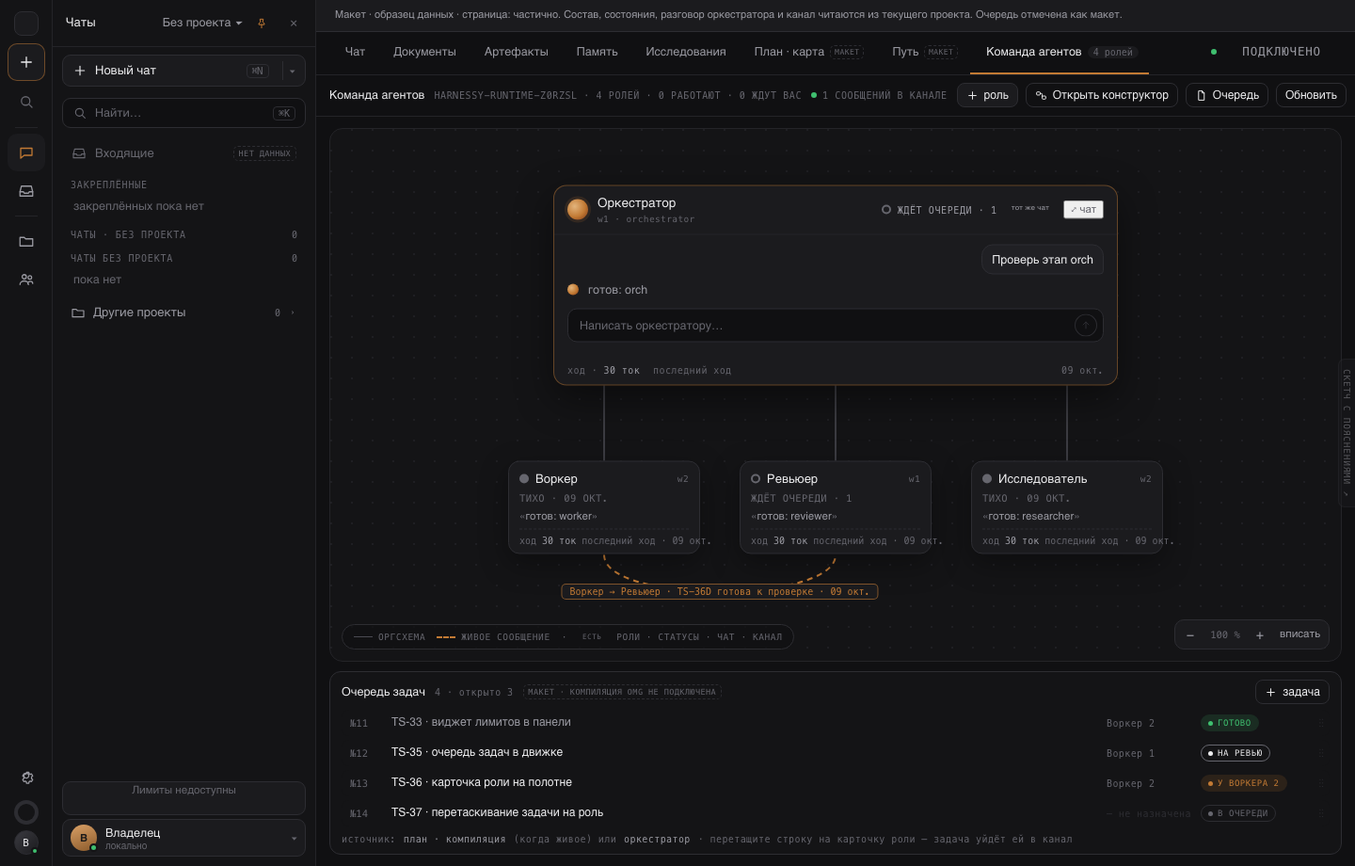
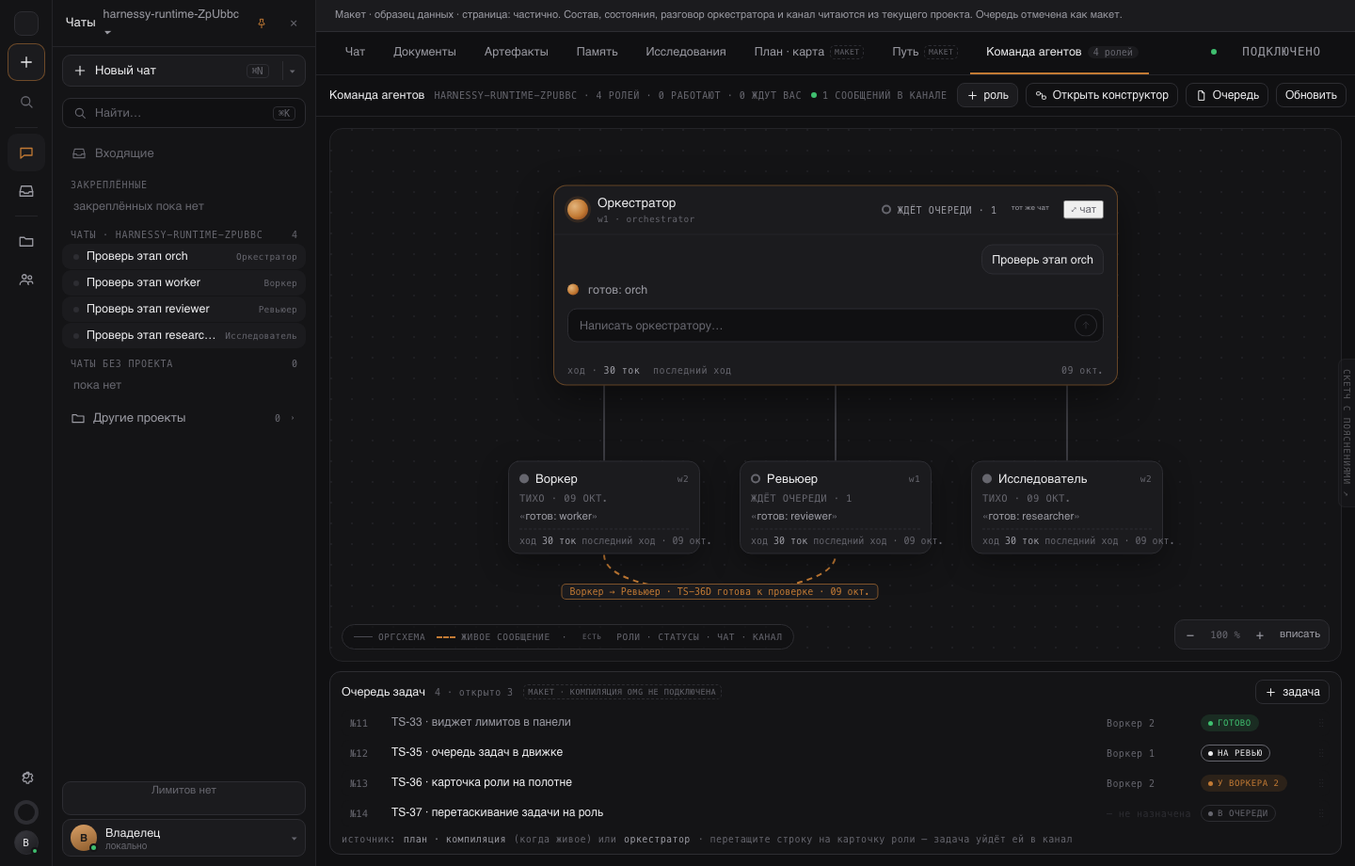
Fix live team project isolation

diff --git a/ui/deploy/team-live.js b/ui/deploy/team-live.js
@@ -4,9 +4,13 @@
   if(!root)return;
   const LIVE=window.LIVE, TC=window.TC, mode=root.dataset.teamLive;
   if(!LIVE||!TC){root.innerHTML='<div class="tc-live-error">Экран команды не загрузился.</div>';return}
-  const H=LIVE.H, esc=LIVE.esc, S={request:0,loading:false,queued:false,data:null,chats:new Map(),derived:null,engine:null,selected:null,error:null,events:null,queue:JSON.parse(JSON.stringify(TC.QUEUE0)),filter:'all'};
+  const H=LIVE.H, esc=LIVE.esc, S={request:0,loading:false,queued:false,binding:null,settings:new Map(),drafts:new Map(),skipDraftCapture:false,data:null,chats:new Map(),derived:null,engine:null,selected:null,error:null,events:null,queue:JSON.parse(JSON.stringify(TC.QUEUE0)),filter:'all'};
   const projectBinding=()=>({project:H.project,request:H.projectRequestGeneration||0,confirmed:H.confirmedProjectGeneration||0});
   const projectCurrent=binding=>binding.project===H.project&&binding.request===(H.projectRequestGeneration||0)&&binding.confirmed===(H.confirmedProjectGeneration||0);
+  const sameBinding=(left,right)=>!!left&&!!right&&left.project===right.project&&left.request===right.request&&left.confirmed===right.confirmed;
+  const snapshotCurrent=(binding=S.binding)=>!!binding&&projectCurrent(binding)&&sameBinding(S.binding,binding);
+  const draftKey=(project,id)=>project+'\u0000'+id;
+  function settingReceipt(id,binding){const pane=(H.panes||[]).find(row=>row.id===id),value=pane&&pane.settingsBinding;return value&&value.project===binding.project&&value.pane===id&&typeof value.instanceId==='string'&&value.instanceId&&Number.isSafeInteger(value.revision)&&value.revision>=0&&(value.chat===null||typeof value.chat==='string')&&typeof value.mode==='string'&&(value.networkGeneration===null||typeof value.networkGeneration==='string')?{...value}:null}
   const safeNumber=value=>typeof value==='number'&&Number.isFinite(value)&&value>=0;
   const safeRecord=row=>row&&Number.isSafeInteger(row.seq)&&row.seq>0&&typeof row.ts==='string'&&Number.isFinite(Date.parse(row.ts))&&typeof row.from==='string'&&Array.isArray(row.to)&&row.to.every(id=>typeof id==='string')&&typeof row.kind==='string'&&typeof row.text==='string';
   const safePane=p=>p&&typeof p.id==='string'&&p.id&&p.id!=='room'&&['label','role','vendor','model','mode','status'].every(key=>typeof p[key]==='string')&&typeof p.busy==='boolean'&&Number.isSafeInteger(p.pending)&&p.pending>=0&&Number.isSafeInteger(p.pendingApprovals)&&p.pendingApprovals>=0&&(p.chat===null||typeof p.chat==='string')&&(p.instructionPath===null||typeof p.instructionPath==='string')&&Array.isArray(p.queue)&&p.queue.every(safeRecord)&&p.context&&safeNumber(p.context.used)&&(p.context.last===null||p.context.last&&['input','output','cacheRead'].every(key=>p.context.last[key]===null||safeNumber(p.context.last[key])));
@@ -21,7 +25,7 @@
   function member(pane){const chat=S.chats.get(pane.id),messages=chat&&chat.messages||[],last=messages.length?messages[messages.length-1]:null,state=paneState(pane,last),used=tokens(pane.context.last);return {id:pane.id,name:pane.label||pane.id,gen:(pane.label||pane.id).toLowerCase(),kind:pane.kind||pane.role,role:pane.role,model:modelName(pane),vendor:pane.vendor,mode:pane.mode,st:state[0],stText:state[1],last:last?short(last.text):pane.turn&&pane.turn.message?short(pane.turn.message):'реплик ещё нет',spend:used===null?'нет данных':used.toLocaleString('ru-RU')+' ток',tok:'последний ход',at:last?relative(last.ts):'нет времени',messages,chat:pane.chat,instructionPath:pane.instructionPath,source:pane};}
   function derive(snapshot){const members=snapshot.panes.map(member),byId=new Map(members.map(row=>[row.id,row])),orch=members.find(row=>row.kind==='orchestrator'||row.role==='orchestrator')||null,edges=[];if(orch)for(const row of members)if(row!==orch)edges.push({s:orch.id,t:row.id,k:'org'});const live=[];for(const record of snapshot.journal.records){if(!byId.has(record.from))continue;for(const to of record.to)if(to!==record.from&&byId.has(to))live.push({s:record.from,t:to,k:'live',a:(byId.get(record.from).name+' → '+byId.get(to).name+' · '+short(record.text).slice(0,72)+' · '+relative(Date.parse(record.ts)))})}edges.push(...live.slice(-6));return {members,orch,roles:members.filter(row=>row!==orch),edges,live:live.slice(-6)}}
   const icon=key=>TC.ico(key);
-  const projectName=()=>String(H.project||'').split('/').filter(Boolean).pop()||'Без проекта';
+  const projectName=()=>String(S.binding&&S.binding.project||H.project||'').split('/').filter(Boolean).pop()||'Без проекта';
   function content(html){const banner=root.querySelector(':scope > .spec-banner');root.innerHTML=html;if(banner)root.insertBefore(banner,root.firstChild)}
   function tabs(){const tab=(key,label,tail='')=>'<span'+(key==='swarm'?' class="on"':'')+' data-go="'+key+'">'+icon(key)+label+tail+'</span>';return '<div class="ps2-tabs">'+tab('chat','Чат')+tab('doc','Документы')+tab('art','Артефакты')+tab('mem','Память')+tab('res','Исследования')+tab('plan','План · карта',TC.tag('mock','макет'))+tab('path','Путь',TC.tag('mock','макет'))+tab('swarm','Команда агентов','<b data-team-count>0 ролей</b>')+'<span class="r"><i></i><span data-team-link>читаю данные</span></span></div>'}
   const zoom=()=>'<div class="om-zoom" data-zoom><span data-z="out">−</span><b data-zpct>100 %</b><span data-z="in">+</span><span class="fit" data-z="fit">вписать</span></div>';
@@ -35,30 +39,35 @@
     TC.bindQueue(root,S.queue,()=>drawQueuePreview());drawQueuePreview();
   }
   function drawQueuePreview(){const box=root.querySelector('[data-team-queue-preview]');if(box)box.innerHTML=TC.queue(S.queue.slice(0,4),{one:true})}
-  function drawWork(){if(!S.engine)workShell();const data=S.data,view=S.derived,roles=view&&view.members||[];root.querySelector('[data-team-count]').textContent=roles.length+' ролей';root.querySelector('[data-team-link]').textContent=data?'подключено':'нет данных';root.querySelector('[data-team-summary]').textContent=data?projectName()+' · '+roles.length+' ролей · '+roles.filter(row=>row.st==='write').length+' работают · '+roles.filter(row=>row.st==='decide'||row.st==='err').length+' ждут вас':'Данные команды не прочитаны';root.querySelector('[data-team-channel]').textContent=data?(view.live.length?view.live.length+' сообщений в канале':'канал тихий'):'канал недоступен';const menu=root.querySelector('[data-team-plus-wrap] .tc-pmenu');if(menu)menu.outerHTML=roleMenu();S.engine.render();error(S.error)}
-  function modelOptions(pane){const rows=[];for(const [vendor,models] of Object.entries(H.models||{}))if(Array.isArray(models))for(const model of models)if(model&&typeof model.id==='string')rows.push({vendor,id:model.id,label:model.label||model.id});if(!rows.some(row=>row.vendor===pane.vendor&&row.id===pane.model))rows.unshift({vendor:pane.vendor,id:pane.model,label:pane.model||'модель не выбрана'});return rows.map(row=>{const value=encodeURIComponent(row.vendor)+'/'+encodeURIComponent(row.id);return '<option value="'+value+'"'+(row.vendor===pane.vendor&&row.id===pane.model?' selected':'')+'>'+esc(row.label)+' · '+esc(row.vendor)+'</option>'}).join('')}
-  function modeOptions(pane){const available=H.turnModes&&H.turnModes[pane.vendor]||{},ids=Object.keys(available).filter(id=>available[id]&&available[id].ok===true);if(!ids.includes(pane.mode))ids.unshift(pane.mode);return ids.map(id=>'<option value="'+esc(id)+'"'+(id===pane.mode?' selected':'')+'>'+esc(id)+'</option>').join('')}
-  function constructorNode(row){const p=row.source;return '<div class="tc-node" data-key="'+esc(row.id)+'" data-team-pane="'+esc(row.id)+'"><span class="pi" data-l="получает"></span><span class="po" data-l="пишет"></span><div class="hd"><span class="ic">'+icon(row.kind==='orchestrator'?'orch':row.kind||'role')+'</span><div><b>'+esc(row.name)+'</b><small>'+esc(row.role)+' · '+esc(row.vendor)+'</small></div></div><div class="rows"><label class="row"><span>модель</span><select class="v" data-team-model data-nodrag data-original="'+esc(encodeURIComponent(p.vendor)+'/'+encodeURIComponent(p.model))+'">'+modelOptions(p)+'</select></label><label class="row"><span>права</span><select class="v" data-team-mode data-nodrag data-original="'+esc(p.mode)+'"'+(p.busy?' disabled title="Права меняются после завершения хода"':'')+'>'+modeOptions(p)+'</select></label><button type="button" class="row tc-instruction-open" data-team-instruction-open="'+esc(row.id)+'" data-nodrag><span>инструкция</span><span class="v file">'+esc(row.instructionPath||'файл не задан')+'</span></button></div><div class="ft"><span class="acc">живое место</span><span>'+esc(row.stText)+'</span></div></div>'}
+  function drawWork(){if(!S.engine)workShell();const data=S.data,view=S.derived,roles=view&&view.members||[],ready=snapshotCurrent();root.querySelector('[data-team-count]').textContent=roles.length+' ролей';root.querySelector('[data-team-link]').textContent=ready?'подключено':data?'смена проекта':'нет данных';root.querySelector('[data-team-summary]').textContent=data?projectName()+' · '+roles.length+' ролей · '+roles.filter(row=>row.st==='write').length+' работают · '+roles.filter(row=>row.st==='decide'||row.st==='err').length+' ждут вас':'Данные команды не прочитаны';root.querySelector('[data-team-channel]').textContent=data?(view.live.length?view.live.length+' сообщений в канале':'канал тихий'):'канал недоступен';const menu=root.querySelector('[data-team-plus-wrap] .tc-pmenu');if(menu)menu.outerHTML=roleMenu();S.engine.render();root.querySelectorAll('[data-team-plus],[data-team-send],[data-team-open-chat],[data-team-chat-input]').forEach(node=>node.disabled=!ready);if(!ready)root.querySelectorAll('[data-team-role]').forEach(node=>node.disabled=true);error(S.error)}
+  function draftFor(id){return S.binding&&S.drafts.get(draftKey(S.binding.project,id))||null}
+  function captureDrafts(){if(mode!=='constructor'||!snapshotCurrent())return;for(const node of root.querySelectorAll('[data-team-pane]')){const model=node.querySelector('[data-team-model]'),rights=node.querySelector('[data-team-mode]');if(!model||!rights)continue;const key=draftKey(S.binding.project,node.dataset.teamPane);if(model.value===model.dataset.original&&rights.value===rights.dataset.original)S.drafts.delete(key);else S.drafts.set(key,{model:model.value,mode:rights.value})}}
+  function restoreDrafts(){if(mode!=='constructor'||!snapshotCurrent())return;for(const node of root.querySelectorAll('[data-team-pane]')){const draft=draftFor(node.dataset.teamPane),model=node.querySelector('[data-team-model]'),rights=node.querySelector('[data-team-mode]');if(!model||!rights)continue;model.value=draft&&[...model.querySelectorAll('option')].some(option=>option.value===draft.model)?draft.model:model.dataset.original;rights.value=draft&&[...rights.querySelectorAll('option')].some(option=>option.value===draft.mode)?draft.mode:rights.dataset.original}}
+  function modelOptions(pane,selected){const rows=[];for(const [vendor,models] of Object.entries(H.models||{}))if(Array.isArray(models))for(const model of models)if(model&&typeof model.id==='string')rows.push({vendor,id:model.id,label:model.label||model.id});if(!rows.some(row=>row.vendor===pane.vendor&&row.id===pane.model))rows.unshift({vendor:pane.vendor,id:pane.model,label:pane.model||'модель не выбрана'});const original=encodeURIComponent(pane.vendor)+'/'+encodeURIComponent(pane.model),choice=rows.some(row=>encodeURIComponent(row.vendor)+'/'+encodeURIComponent(row.id)===selected)?selected:original;return rows.map(row=>{const value=encodeURIComponent(row.vendor)+'/'+encodeURIComponent(row.id);return '<option value="'+value+'"'+(value===choice?' selected':'')+'>'+esc(row.label)+' · '+esc(row.vendor)+'</option>'}).join('')}
+  function modeOptions(pane,selected){const available=H.turnModes&&H.turnModes[pane.vendor]||{},ids=Object.keys(available).filter(id=>available[id]&&available[id].ok===true);if(!ids.includes(pane.mode))ids.unshift(pane.mode);const choice=ids.includes(selected)?selected:pane.mode;return ids.map(id=>'<option value="'+esc(id)+'"'+(id===choice?' selected':'')+'>'+esc(id)+'</option>').join('')}
+  function constructorNode(row){const p=row.source,draft=draftFor(row.id),originalModel=encodeURIComponent(p.vendor)+'/'+encodeURIComponent(p.model);return '<div class="tc-node" data-key="'+esc(row.id)+'" data-team-pane="'+esc(row.id)+'"><span class="pi" data-l="получает"></span><span class="po" data-l="пишет"></span><div class="hd"><span class="ic">'+icon(row.kind==='orchestrator'?'orch':row.kind||'role')+'</span><div><b>'+esc(row.name)+'</b><small>'+esc(row.role)+' · '+esc(row.vendor)+'</small></div></div><div class="rows"><label class="row"><span>модель</span><select class="v" data-team-model data-nodrag data-original="'+esc(originalModel)+'">'+modelOptions(p,draft&&draft.model||originalModel)+'</select></label><label class="row"><span>права</span><select class="v" data-team-mode data-nodrag data-original="'+esc(p.mode)+'"'+(p.busy?' disabled title="Права меняются после завершения хода"':'')+'>'+modeOptions(p,draft&&draft.mode||p.mode)+'</select></label><button type="button" class="row tc-instruction-open" data-team-instruction-open="'+esc(row.id)+'" data-nodrag><span>инструкция</span><span class="v file">'+esc(row.instructionPath||'файл не задан')+'</span></button></div><div class="ft"><span class="acc">живое место</span><span>'+esc(row.stText)+'</span></div></div>'}
   function library(){const rows=Array.isArray(H.roleCatalog)?H.roleCatalog:[];return '<div class="tc-lib"><div class="hd">библиотека ролей<span>'+rows.length+'</span></div>'+rows.map(role=>'<button type="button" class="it'+(role.available?'':' used')+'" data-team-role="'+esc(role.role)+'"'+(role.available?'':' disabled')+'><span class="ic">'+icon(role.kind==='orchestrator'?'orch':role.kind||'role')+'</span><div><b>'+esc(role.label||role.role)+'</b><small>'+esc(role.description||role.reason||'роль проекта')+'</small></div><span class="m">'+esc(role.available?'доступна':role.reason||'в команде')+'</span></button>').join('')+'<div class="it own"><span class="ic">'+icon('new')+'</span><div><b>Своя роль</b><small>двери записи роли в движке нет</small></div><span class="m">'+TC.tag('mock','макет')+'</span></div><div class="ft">Состав расширяет оркестратор через подтверждённое предложение. Здесь сохраняются только модель и права существующего места.</div></div>'}
   function constructorShell(){content(tabs()+'<div class="ps2-tbar"><b>Конструктор команды</b><span class="m" data-team-summary>Читаю состав…</span>'+TC.tag('mock','связи · применение без перезапуска')+'<span class="r"><button type="button" class="btn sm ghost" data-team-work>'+icon('swarm')+'К полотну</button><button type="button" class="btn sm p" data-team-save>'+icon('save')+'Сохранить модель и права</button></span></div><div class="tc-cons"><div data-team-library></div><div class="om-canvas tc" data-canvas><div class="spec-block">Макет · связи и порты пока не сохраняются движком.</div><div class="om-view" data-view><svg class="om-edges" data-edges></svg><div data-nodes></div></div>'+zoom()+'<div class="tc-legend"><span><i></i>оргсхема</span><span>·</span>'+TC.tag('live','есть')+'<span>модель · права · инструкция</span>'+TC.tag('mock','макет')+'<span>связи</span></div></div></div><section class="tc-instruction" data-team-instruction><b>Инструкция роли</b><p>Выберите карточку. Файл читается из проекта; отдельной двери записи инструкции нет.</p></section>');
     S.engine=TC.engine(root,{nodes:()=>S.derived?S.derived.members.map(constructorNode).join(''):'',edges:()=>S.derived?S.derived.edges.filter(edge=>edge.k==='org'):[],path:TC.consPath,padBottom:60,layout:(G,W)=>{const nodes=S.derived&&S.derived.members||[],cw=236,cols=Math.max(1,Math.min(3,Math.floor((W-32)/(cw+38))));nodes.forEach((row,index)=>{const col=index%cols,line=Math.floor(index/cols);G.rects[row.id]={x:24+col*(cw+64),y:24+line*188,w:cw,h:150}})},onSelect:id=>{S.selected=id;void readInstruction(id)}});
   }
-  function drawConstructor(){if(!S.engine)constructorShell();root.querySelector('[data-team-library]').innerHTML=library();root.querySelector('[data-team-summary]').textContent=S.data?projectName()+' · '+S.data.panes.length+' ролей':'Данные команды не прочитаны';S.engine.render();error(S.error)}
-  async function readInstruction(id){const row=S.derived&&S.derived.members.find(member=>member.id===id),box=root.querySelector('[data-team-instruction]');if(!row||!box)return;if(!row.instructionPath){box.innerHTML='<b>'+esc(row.name)+' · инструкция</b><p>Файл инструкции для этого места не задан.</p>'+TC.tag('live','отсутствует');return}const binding=projectBinding(),request=S.request;box.innerHTML='<b>'+esc(row.name)+' · '+esc(row.instructionPath)+'</b><p>Читаю файл…</p>';try{const value=await LIVE.api('/api/project/file?project='+encodeURIComponent(binding.project)+'&path='+encodeURIComponent(row.instructionPath)+'&text=1');if(request!==S.request||!projectCurrent(binding))return;if(!value||value.ok!==true||value.project!==binding.project||value.path!==row.instructionPath||typeof value.text!=='string')throw Error(value&&value.error||'Файл не прочитан.');box.innerHTML='<b>'+esc(row.name)+' · '+esc(row.instructionPath)+'</b><textarea readonly>'+esc(value.text)+'</textarea><p>'+TC.tag('live','чтение')+' Сохранение текста инструкции: '+TC.tag('mock','макет · нет API записи')+'</p>'}catch(failure){if(request===S.request&&projectCurrent(binding))box.innerHTML='<b>'+esc(row.name)+' · инструкция</b><p role="alert">'+esc(failure.message||'Файл не прочитан.')+'</p>'}}
+  function drawConstructor(){if(S.engine&&!S.skipDraftCapture)captureDrafts();S.skipDraftCapture=false;if(!S.engine)constructorShell();const count=S.data?S.data.panes.length:0,ready=snapshotCurrent();root.querySelector('[data-team-library]').innerHTML=library();root.querySelector('[data-team-count]').textContent=count+' ролей';root.querySelector('[data-team-link]').textContent=ready?'подключено':S.data?'смена проекта':'нет данных';root.querySelector('[data-team-summary]').textContent=S.data?projectName()+' · '+count+' ролей':'Данные команды не прочитаны';root.querySelector('[data-team-save]').disabled=false;S.engine.render();restoreDrafts();if(!ready)root.querySelectorAll('[data-team-model],[data-team-mode],[data-team-instruction-open],[data-team-role]').forEach(node=>node.disabled=true);error(S.error)}
+  async function readInstruction(id){const row=S.derived&&S.derived.members.find(member=>member.id===id),box=root.querySelector('[data-team-instruction]'),binding=S.binding;if(!row||!box)return;if(!binding||!projectCurrent(binding)){error('Проект изменился. Дождитесь состава нового проекта.');return}if(!row.instructionPath){box.innerHTML='<b>'+esc(row.name)+' · инструкция</b><p>Файл инструкции для этого места не задан.</p>'+TC.tag('live','отсутствует');return}const request=S.request;box.innerHTML='<b>'+esc(row.name)+' · '+esc(row.instructionPath)+'</b><p>Читаю файл…</p>';try{const value=await LIVE.api('/api/project/file?project='+encodeURIComponent(binding.project)+'&path='+encodeURIComponent(row.instructionPath)+'&text=1');if(request!==S.request||!projectCurrent(binding))return;if(!value||value.ok!==true||value.project!==binding.project||value.path!==row.instructionPath||typeof value.text!=='string')throw Error(value&&value.error||'Файл не прочитан.');box.innerHTML='<b>'+esc(row.name)+' · '+esc(row.instructionPath)+'</b><textarea readonly>'+esc(value.text)+'</textarea><p>'+TC.tag('live','чтение')+' Сохранение текста инструкции: '+TC.tag('mock','макет · нет API записи')+'</p>'}catch(failure){if(request===S.request&&projectCurrent(binding))box.innerHTML='<b>'+esc(row.name)+' · инструкция</b><p role="alert">'+esc(failure.message||'Файл не прочитан.')+'</p>'}}
   function queueRows(){const rows=S.filter==='all'?S.queue:S.queue.filter(task=>task.st===S.filter);return '<div class="tc-queue"><div class="filt"><button class="chip'+(S.filter==='all'?' on':'')+'" data-team-filter="all">Все · '+S.queue.length+'</button>'+[['q','В очереди'],['work','В работе'],['rev','На ревью'],['done','Готово']].map(([key,label])=>'<button class="chip'+(S.filter===key?' on':'')+'" data-team-filter="'+key+'">'+label+'</button>').join('')+'<span class="sp"></span>'+TC.tag('mock','макет · очередь из плана')+'</div><div class="hd"><b>Очередь задач</b><span class="m">пример · не данные движка</span></div><div class="rows one">'+rows.map(task=>TC.task(task,{cls:'big'})).join('')+'</div><div class="src">Макет · перетащите строку на карточку роли справа: состояние изменится только в браузере.</div></div>'}
   function queueShell(){const targets=[{...TC.ROLES[0],id:'mock-orch',name:'Оркестратор',gen:'оркестратора',st:'free',stText:'цель макета'},...TC.ROLES.slice(0,4)];content(tabs()+'<div class="ps2-tbar"><b>Команда агентов · очередь</b><span class="m">пример взаимодействия</span>'+TC.tag('mock','в движке очереди нет')+'<span class="r"><button type="button" class="btn sm ghost" data-team-work>'+icon('swarm')+'К полотну</button></span></div><div class="tc-qbig" data-spec-mock="В движке Harnessy очереди задач нет."><div data-team-queue-list></div><div class="targets"><span class="lbl">цели · данные примера</span>'+targets.map(cardHTML).join('')+'</div></div>');TC.bindQueue(root,S.queue,(task,card)=>{drawQueue();const line=card.querySelector('.l3');if(line)line.textContent='№'+task.n+' назначена: '+task.t});drawQueue()}
   function drawQueue(){const box=root.querySelector('[data-team-queue-list]');if(box)box.innerHTML=queueRows()}
-  async function saveConstructor(){const binding=projectBinding(),changes=[];for(const node of root.querySelectorAll('[data-team-pane]')){const model=node.querySelector('[data-team-model]'),rights=node.querySelector('[data-team-mode]');if(!model||!rights)continue;if(model.value!==model.dataset.original||rights.value!==rights.dataset.original)changes.push({node,model,rights})}if(!changes.length){LIVE.toast('Изменений модели и прав нет.');return}const button=root.querySelector('[data-team-save]');button.disabled=true;try{for(const change of changes){if(!projectCurrent(binding))throw Error('Проект изменился. Откройте конструктор снова.');const id=change.node.dataset.teamPane,[vendor,model]=change.model.value.split('/').map(decodeURIComponent),pane=(H.panes||[]).find(row=>row.id===id),rightsChanged=change.rights.value!==change.rights.dataset.original;if(!pane||!pane.settingsBinding||typeof pane.settingsBinding!=='object')throw Error('Не удалось подтвердить настройки места. Обновите экран.');if(rightsChanged&&pane.busy)throw Error('Место сейчас отвечает — права можно изменить после завершения хода.');const body={vendor,model,mode:change.rights.value,binding:{...pane.settingsBinding}},value=await LIVE.api('/api/panes/'+encodeURIComponent(id),body);if(!projectCurrent(binding))return;if(!value||value.ok!==true||!value.pane||value.pane.id!==id||value.pane.vendor!==vendor||value.pane.model!==model||value.pane.mode!==change.rights.value)throw Error(value&&value.error||'Движок не подтвердил настройки места.')}await LIVE.refreshStatus(true);if(!projectCurrent(binding))return;await sync(true);LIVE.toast('Модель и права сохранены. Со следующего хода.')}catch(failure){if(projectCurrent(binding))error(failure.message||'Настройки не сохранены.')}finally{button.disabled=false}}
-  async function assignRole(role){const catalog=Array.isArray(H.roleCatalog)&&H.roleCatalog.find(row=>row.role===role);if(!catalog||!catalog.available){error(catalog&&catalog.reason||'Роль сейчас недоступна.');return}const binding=projectBinding(),chat=(H.active||{}).room;if(!chat){error('Сначала начните разговор без роли — его можно назначить оркестратором.');return}try{const opened=await LIVE.api('/api/chats/'+encodeURIComponent(chat));if(!projectCurrent(binding))return;if(!validChat(opened,'room',chat))throw Error(opened&&opened.error||'Разговор без роли изменился.');const value=await LIVE.api('/api/assign',{role,chat,project:binding.project,revision:opened.chat.revision,documents:opened.chat.documents});if(!projectCurrent(binding))return;if(!value||value.ok!==true)throw Error(value&&value.error||'Роль не назначена.');await LIVE.refreshStatus(true);if(!projectCurrent(binding))return;await sync(true);LIVE.toast('Оркестратор назначен.')}catch(failure){if(projectCurrent(binding))error(failure.message||'Роль не назначена.')}}
-  async function sendOrchestrator(){const row=S.derived&&S.derived.orch,input=root.querySelector('[data-team-chat-input]');if(!row||!input)return;const message=input.value.trim();if(!message)return;const binding=projectBinding(),chat=row.chat;input.disabled=true;try{const value=await LIVE.api('/api/chat',{pane:row.id,message});if(!projectCurrent(binding)||S.derived&&S.derived.orch&&S.derived.orch.chat!==chat)return;if(!value||value.ok!==true)throw Error(value&&value.error||'Сообщение не отправлено.');input.value='';await sync(true)}catch(failure){if(projectCurrent(binding))error(failure.message||'Сообщение не отправлено.')}finally{input.disabled=false}}
-  function openOrchestrator(){const row=S.derived&&S.derived.orch;if(!row)return;LIVE.S.ui.pane=row.id;LIVE.save();location.href='01-chat.html'}
-  async function sync(force=false){if(mode==='queue')return;if(!H.on||H.snapshotOnly){S.error='Движок недоступен — живые данные команды не показаны.';draw();return}if(S.loading){S.queued=true;return}const binding=projectBinding(),request=++S.request;S.loading=true;try{const data=await LIVE.api('/api/swarm');if(request!==S.request||!projectCurrent(binding))return;if(!validSnapshot(data,binding.project))throw Error('Снимок команды не прошёл проверку.');const pairs=await Promise.all(data.panes.map(async pane=>{if(!pane.chat)return [pane.id,null];try{const chat=await LIVE.api('/api/chats/'+encodeURIComponent(pane.chat));return [pane.id,validChat(chat,pane.id,pane.chat)?chat:null]}catch(failure){return [pane.id,null]}}));if(request!==S.request||!projectCurrent(binding))return;S.data=data;S.chats=new Map(pairs);S.derived=derive(data);S.error=null;draw()}catch(failure){if(request===S.request&&projectCurrent(binding)){S.error=failure.message||'Не удалось прочитать команду.';draw()}}finally{if(request===S.request){S.loading=false;if(S.queued){S.queued=false;void sync(true)}}}}
+  async function saveConstructor(){captureDrafts();const binding=S.binding,button=root.querySelector('[data-team-save]');if(!snapshotCurrent(binding)){button.disabled=false;error('Проект изменился. Дождитесь состава нового проекта.');return}const changes=[];for(const node of root.querySelectorAll('[data-team-pane]')){const model=node.querySelector('[data-team-model]'),rights=node.querySelector('[data-team-mode]');if(!model||!rights)continue;if(model.value!==model.dataset.original||rights.value!==rights.dataset.original)changes.push({node,model,rights})}if(!changes.length){LIVE.toast('Изменений модели и прав нет.');return}button.disabled=true;try{for(const change of changes){if(!snapshotCurrent(binding))throw Error('Проект изменился. Дождитесь состава нового проекта.');const id=change.node.dataset.teamPane,[vendor,model]=change.model.value.split('/').map(decodeURIComponent),pane=S.data&&S.data.panes.find(row=>row.id===id),receipt=S.settings.get(id),rightsChanged=change.rights.value!==change.rights.dataset.original;if(!pane||!receipt)throw Error('Не удалось подтвердить настройки места. Обновите экран.');if(rightsChanged&&pane.busy)throw Error('Место сейчас отвечает — права можно изменить после завершения хода.');const body={vendor,model,mode:change.rights.value,binding:{...receipt}},value=await LIVE.api('/api/panes/'+encodeURIComponent(id),body);if(!snapshotCurrent(binding))return;if(!value||value.ok!==true||!value.pane||value.pane.id!==id||value.pane.vendor!==vendor||value.pane.model!==model||value.pane.mode!==change.rights.value)throw Error(value&&value.error||'Движок не подтвердил настройки места.');S.drafts.delete(draftKey(binding.project,id))}await LIVE.refreshStatus(true);if(!projectCurrent(binding))return;await sync(true);LIVE.toast('Модель и права сохранены. Со следующего хода.')}catch(failure){if(projectCurrent(binding))error(failure.message||'Настройки не сохранены.')}finally{button.disabled=false}}
+  async function assignRole(role){const binding=S.binding;if(!snapshotCurrent(binding)){error('Проект изменился. Дождитесь состава нового проекта.');return}const catalog=Array.isArray(H.roleCatalog)&&H.roleCatalog.find(row=>row.role===role);if(!catalog||!catalog.available){error(catalog&&catalog.reason||'Роль сейчас недоступна.');return}const chat=(H.active||{}).room;if(!chat){error('Сначала начните разговор без роли — его можно назначить оркестратором.');return}try{const opened=await LIVE.api('/api/chats/'+encodeURIComponent(chat));if(!snapshotCurrent(binding))return;if(!validChat(opened,'room',chat))throw Error(opened&&opened.error||'Разговор без роли изменился.');const value=await LIVE.api('/api/assign',{role,chat,project:binding.project,revision:opened.chat.revision,documents:opened.chat.documents});if(!snapshotCurrent(binding))return;if(!value||value.ok!==true)throw Error(value&&value.error||'Роль не назначена.');await LIVE.refreshStatus(true);if(!projectCurrent(binding))return;await sync(true);LIVE.toast('Оркестратор назначен.')}catch(failure){if(projectCurrent(binding))error(failure.message||'Роль не назначена.')}}
+  async function sendOrchestrator(){const row=S.derived&&S.derived.orch,input=root.querySelector('[data-team-chat-input]'),binding=S.binding;if(!row||!input)return;if(!snapshotCurrent(binding)){error('Проект изменился. Дождитесь состава нового проекта.');return}const message=input.value.trim();if(!message)return;const chat=row.chat;input.disabled=true;try{const value=await LIVE.api('/api/chat',{pane:row.id,message});if(!snapshotCurrent(binding)||S.derived&&S.derived.orch&&S.derived.orch.chat!==chat)return;if(!value||value.ok!==true)throw Error(value&&value.error||'Сообщение не отправлено.');input.value='';await sync(true)}catch(failure){if(projectCurrent(binding))error(failure.message||'Сообщение не отправлено.')}finally{input.disabled=false}}
+  function openOrchestrator(){const row=S.derived&&S.derived.orch;if(!row||!snapshotCurrent()){error('Проект изменился. Дождитесь состава нового проекта.');return}LIVE.S.ui.pane=row.id;LIVE.save();location.href='01-chat.html'}
+  function invalidateSnapshot(){if(!S.binding||projectCurrent(S.binding))return false;S.settings=new Map();S.error='Проект изменился. Дождитесь состава нового проекта.';draw();return true}
+  async function sync(force=false){if(mode==='queue')return;if(!H.on||H.snapshotOnly){S.binding=null;S.settings=new Map();S.data=null;S.chats=new Map();S.derived=null;S.error='Движок недоступен — живые данные команды не показаны.';draw();return}if(S.loading){S.queued=true;return}const binding=projectBinding(),request=++S.request;S.loading=true;try{const data=await LIVE.api('/api/swarm');if(request!==S.request||!projectCurrent(binding))return;if(!validSnapshot(data,binding.project))throw Error('Снимок команды не прошёл проверку.');const pairs=await Promise.all(data.panes.map(async pane=>{if(!pane.chat)return [pane.id,null];try{const chat=await LIVE.api('/api/chats/'+encodeURIComponent(pane.chat));return [pane.id,validChat(chat,pane.id,pane.chat)?chat:null]}catch(failure){return [pane.id,null]}}));if(request!==S.request||!projectCurrent(binding))return;const settings=new Map(data.panes.map(pane=>[pane.id,settingReceipt(pane.id,binding)]));S.skipDraftCapture=mode==='constructor'&&!sameBinding(S.binding,binding);S.binding=binding;S.settings=settings;S.data=data;S.chats=new Map(pairs);S.derived=derive(data);S.error=null;draw();if(window.HARNESS_BOOT)window.HARNESS_BOOT.ready()}catch(failure){if(request===S.request&&projectCurrent(binding)){S.error=failure.message||'Не удалось прочитать команду.';draw()}}finally{if(request===S.request){S.loading=false;if(S.queued){S.queued=false;void sync(true)}}}}
   function draw(){if(mode==='work')drawWork();else if(mode==='constructor')drawConstructor()}
   root.addEventListener('click',event=>{const plus=event.target.closest('[data-team-plus]');if(plus){root.querySelector('[data-team-plus-wrap]').classList.toggle('open');return}const role=event.target.closest('[data-team-role]');if(role&&!role.disabled){void assignRole(role.dataset.teamRole);return}if(event.target.closest('[data-team-constructor]')){location.href='41-team-constructor.html';return}if(event.target.closest('[data-team-queue]')){location.href='41-team-queue.html';return}if(event.target.closest('[data-team-work]')){location.href='04-swarm.html';return}if(event.target.closest('[data-team-refresh]')){void sync(true);return}if(event.target.closest('[data-team-send]')){void sendOrchestrator();return}if(event.target.closest('[data-team-open-chat]')){openOrchestrator();return}if(event.target.closest('[data-team-save]')){void saveConstructor();return}const instruction=event.target.closest('[data-team-instruction-open]');if(instruction){S.selected=instruction.dataset.teamInstructionOpen;void readInstruction(S.selected);return}const filter=event.target.closest('[data-team-filter]');if(filter){S.filter=filter.dataset.teamFilter;drawQueue()}});
+  root.addEventListener('change',event=>{if(event.target.closest('[data-team-model],[data-team-mode]'))captureDrafts()});
   root.addEventListener('keydown',event=>{if(event.key==='Enter'&&!event.shiftKey&&event.target.matches('[data-team-chat-input]')){event.preventDefault();void sendOrchestrator()}});
   document.addEventListener('click',event=>{if(!event.target.closest('[data-team-plus-wrap]'))root.querySelectorAll('[data-team-plus-wrap].open').forEach(node=>node.classList.remove('open'))});
   function subscribe(){if(!S.events&&typeof LIVE.subscribeLiveEvents==='function')S.events=LIVE.subscribeLiveEvents(event=>{let value;try{value=JSON.parse(event.data)}catch(failure){return}if(!value.project||value.project===H.project)void sync()})}
-  addEventListener('live:status',()=>{void sync(true)});
+  addEventListener('live:status',()=>{invalidateSnapshot();void sync(true)});
   addEventListener('pagehide',()=>{S.request++;S.loading=false;S.queued=false;if(S.events){S.events.close();S.events=null}});
   addEventListener('pageshow',event=>{if(event.persisted){void sync(true);subscribe()}});
   window.TEAM_LIVE={validSnapshot,validChat,derive,refresh:sync,state:S};

diff --git a/packages/api/src/team-live-ui.test.ts b/packages/api/src/team-live-ui.test.ts
@@ -7,6 +7,7 @@ import {dom} from './ui-dom-test-helpers.ts';
 const read=(path:string)=>readFileSync(new URL('../../../'+path,import.meta.url),'utf8');
 const canvas=read('ui/sketches/disarto/team-canvas.js');
 const live=read('ui/deploy/team-live.js');
+const legacy=read('ui/deploy/live.js');
 const proto=read('ui/deploy/proto.js');
 const part=(source:string,start:string,end:string)=>source.slice(source.indexOf(start),source.indexOf(end,source.indexOf(start)));
 const escape=(value:unknown)=>String(value??'').replace(/[&<>"]/g,char=>({'&':'&amp;','<':'&lt;','>':'&gt;','"':'&quot;'}[char]!));
@@ -20,7 +21,7 @@ const record=(seq=1,from='worker',to=['orch'])=>({seq,ts:'2026-10-23T12:00:00.00
 const pane=(id:string,kind:string|null,chat:string|null)=>({id,label:id==='orch'?'Оркестратор':id==='worker'?'Воркер':'Роль',role:kind||'worker',kind,vendor:'claude',model:id==='worker'?'worker-model':'orch-model',mode:'read',status:'idle',busy:id==='worker',pendingApprovals:0,pending:0,waiting:null,turn:null,chat,instructionPath:id==='worker'?'.harness/roles/worker.md':null,queue:[],context:{used:170,window:200000,pct:0.1,measured:true,last:{input:100,output:20,cacheRead:30},turns:1}});
 const snapshot=(project='/project-a',panes:any[]=[pane('orch','orchestrator','chat-orch'),pane('worker','worker','chat-worker')])=>({ok:true,project,generatedAt:Date.now(),halted:false,team:{path:project+'/.harness/team.yaml',integrationBranch:'main'},journal:{records:[record()],total:1,lastSeq:1},panes});
 const chat=(id:string,paneId:string,text='Последняя живая реплика')=>({chat:{id,pane:paneId,revision:7,documents:[{project:'/project-a',path:'README.md'}]},messages:[{role:'me',text:'Вопрос владельца',ts:Date.now()-2000},{role:'assistant',text,ts:Date.now()-1000}]});
-const settingsBinding=(id:string)=>({project:'/project-a',instanceId:'instance-a',pane:id,chat:'chat-'+id,revision:1,mode:'read',networkGeneration:null});
+const settingsBinding=(id:string,project='/project-a')=>({project,instanceId:project.endsWith('-b')?'instance-b':'instance-a',pane:id,chat:'chat-'+id,revision:1,mode:'read',networkGeneration:null});
 
 type ApiHandler=(path:string,body:unknown)=>unknown|Promise<unknown>;
 function teamUi(mode:'work'|'constructor'|'queue',handler?:ApiHandler,options:any={}){
@@ -64,6 +65,14 @@ test('36D: a page without a historical top bar keeps the SPEC banner inside main
  const banner=d.document.querySelector('.spec-banner')!,main=d.document.querySelector('.main')!,app=d.document.querySelector('.app')!;assert.equal(banner.parentElement,main);assert.equal(app.children.includes(banner),false);
 });
 
+test('36D: clean live team boot never enters the historical swarm overlay controller',()=>{
+ const d=dom('<div class="frame"><section class="main" data-team-live="work"></section></div>');Object.assign(d.document,{documentElement:d.html,body:d.body});let overlayQueries=0;
+ const query=d.document.querySelector.bind(d.document);d.document.querySelector=(selector:string)=>{if(selector.includes('#ovl'))overlayQueries++;return query(selector)};
+ const sandbox:any={PAGE:'swarm',document:d.document,H:{on:true,snapshotOnly:false,project:'/project-a',projectRequestGeneration:0,confirmedProjectGeneration:0}};sandbox.window=sandbox;
+ const context=createContext(sandbox);runInContext(part(legacy,'  const swarmRoot=','  const swCount=')+'\nglobalThis.historicalSwarmRoot=swarmRoot;',context);
+ assert.equal(context.historicalSwarmRoot(),null);assert.equal(overlayQueries,0,'new live DOM must not query the missing historical overlay');
+});
+
 test('36D: + role uses the confirmed room receipt and never invents a door for unavailable roles',async()=>{
  const requests:Array<{path:string;body:unknown}>=[];
  const v=teamUi('work',async(path,body)=>{requests.push({path,body});if(path==='/api/swarm')return snapshot('/project-a',[pane('worker','worker','chat-worker')]);if(path==='/api/chats/chat-worker')return chat('chat-worker','worker');if(path==='/api/chats/room-chat')return chat('room-chat','room');if(path==='/api/assign')return {ok:true};throw Error('unexpected '+path)});await v.settle();
@@ -81,12 +90,24 @@ test('36D: + role refuses an incomplete or forged room receipt before /api/assig
 test('36D: constructor reads the project instruction and saves only the existing model and mode fields',async()=>{
  const mutations:Array<{path:string;body:unknown}>=[];
  const data=snapshot();data.panes[1]!.busy=false;const v=teamUi('constructor',async(path,body)=>{if(path==='/api/swarm')return data;if(path==='/api/chats/chat-orch')return chat('chat-orch','orch');if(path==='/api/chats/chat-worker')return chat('chat-worker','worker');if(path.startsWith('/api/project/file?'))return {ok:true,project:'/project-a',path:'.harness/roles/worker.md',text:'# Настоящая инструкция роли'};if(path.startsWith('/api/panes/')){mutations.push({path,body});return {ok:true,pane:{id:'worker',vendor:'codex',model:'new-model',mode:'all',settingsBinding:settingsBinding('worker')}}}throw Error('unexpected '+path)});await v.settle();
+ assert.equal(v.find('[data-team-count]').textContent,'2 ролей');assert.equal(v.find('[data-team-link]').textContent,'подключено');
  await v.find('[data-team-instruction-open="worker"]').emit('click');await v.settle();assert.match(v.find('[data-team-instruction]').textContent,/Настоящая инструкция роли/);assert.match(v.find('[data-team-instruction]').textContent,/нет API записи/);
  for(const select of v.root.querySelectorAll('[data-team-model],[data-team-mode]'))select.value=select.dataset.original!;
  const worker=v.find('[data-team-pane="worker"]'),model=worker.querySelector('[data-team-model]')!,mode=worker.querySelector('[data-team-mode]')!;model.value='codex/new-model';mode.value='all';
+ await model.emit('change');await v.context.TEAM_LIVE.refresh(true);await v.settle();const redrawnModel=v.find('[data-team-pane="worker"] [data-team-model]'),redrawnMode=v.find('[data-team-pane="worker"] [data-team-mode]');assert.notEqual(redrawnModel,model);assert.equal(redrawnModel.value,'codex/new-model');assert.equal(redrawnMode.value,'all','unsaved draft survives a live redraw');
  await v.find('[data-team-save]').emit('click');await v.settle();assert.deepEqual(plain(mutations),[{path:'/api/panes/worker',body:{vendor:'codex',model:'new-model',mode:'all',binding:settingsBinding('worker')}}]);
  assert.equal(v.requests.some(row=>/instruction|role/.test(row.path)&&!row.path.startsWith('/api/project/file?')),false,'there is no invented instruction-write endpoint');
- v.H.panes.find((row:any)=>row.id==='worker').settingsBinding=undefined;for(const select of v.root.querySelectorAll('[data-team-model],[data-team-mode]'))select.value=select.dataset.original!;v.find('[data-team-pane="worker"] [data-team-model]').value='codex/new-model';await v.find('[data-team-save]').emit('click');await v.settle();assert.equal(mutations.length,1);assert.match(v.find('.tc-live-error').textContent,/подтвердить настройки места/);
+ v.H.panes.find((row:any)=>row.id==='worker').settingsBinding=undefined;await v.context.TEAM_LIVE.refresh(true);await v.settle();for(const select of v.root.querySelectorAll('[data-team-model],[data-team-mode]'))select.value=select.dataset.original!;v.find('[data-team-pane="worker"] [data-team-model]').value='codex/new-model';await v.find('[data-team-save]').emit('click');await v.settle();assert.equal(mutations.length,1);assert.match(v.find('.tc-live-error').textContent,/подтвердить настройки места/);
+});
+
+test('36D: an A constructor cannot save through a B receipt while the B snapshot is pending',async()=>{
+ const mutations:Array<{path:string;body:unknown}>=[],b=deferred<any>();let project='/project-a',bReads=0;
+ const aPane={...pane('worker','worker',null),label:'A воркер',busy:false},bPane={...pane('worker','worker',null),label:'B воркер',busy:false,model:'b-model'};
+ const v=teamUi('constructor',async(path,body)=>{if(path==='/api/swarm'){if(project==='/project-a')return snapshot('/project-a',[aPane]);bReads++;return b.promise}if(path.startsWith('/api/panes/')){mutations.push({path,body});return {ok:true}}throw Error('unexpected '+path)});await v.settle();
+ const model=v.find('[data-team-pane="worker"] [data-team-model]');model.value='codex/new-model';await model.emit('change');project=v.H.project='/project-b';v.H.projectRequestGeneration++;v.H.confirmedProjectGeneration++;v.H.panes=[{id:'worker',busy:false,settingsBinding:settingsBinding('worker','/project-b')}];
+ await v.find('[data-team-save]').emit('click');await v.settle();assert.equal(mutations.length,0);assert.match(v.find('.tc-live-error').textContent,/Проект изменился/);
+ await v.window.emit('live:status');await until(()=>bReads===1);assert.equal(v.find('[data-team-save]').disabled,false);assert.match(v.root.textContent,/A воркер/);assert.match(v.find('.tc-live-error').textContent,/Дождитесь состава нового проекта/);assert.equal(mutations.length,0);
+ b.resolve(snapshot('/project-b',[bPane]));await v.settle();assert.match(v.root.textContent,/B воркер/);assert.equal(v.find('[data-team-pane="worker"] [data-team-model]').value,'claude/b-model','A draft never becomes a B draft');assert.equal(v.find('[data-team-save]').disabled,false);
 });
 
 test('36D: an A → B → A project change during /api/swarm discards the old response and drains the queued refresh',async()=>{

diff --git a/ui/deploy/live.js b/ui/deploy/live.js
@@ -852,7 +852,7 @@
 
   // TS-15b: project-bound swarm snapshots; demo actions never mutate the live team.
   const SWARM={project:null,generation:0,request:0,confirmed:0,alive:true,data:null,error:null,loading:false,queued:false,checking:null,refreshQueued:false,es:null,selected:null,view:'board',tools:new Map(),proposals:null,proposalError:null};
-  const swarmRoot=()=>PAGE==='swarm'?document.querySelector('.frame .main'):null;
+  const swarmRoot=()=>PAGE==='swarm'&&!document.querySelector('[data-team-live]')?document.querySelector('.frame .main'):null;
   const swCount=n=>Number.isSafeInteger(n)&&n>=0;
   const swNumber=n=>typeof n==='number'&&Number.isFinite(n)&&n>=0;
   const swRecord=x=>x&&swCount(x.seq)&&x.seq>0&&typeof x.ts==='string'&&Number.isFinite(Date.parse(x.ts))&&['from','kind','text'].every(k=>typeof x[k]==='string')&&Array.isArray(x.to)&&x.to.every(id=>typeof id==='string')&&(x.thread===null||typeof x.thread==='string');
